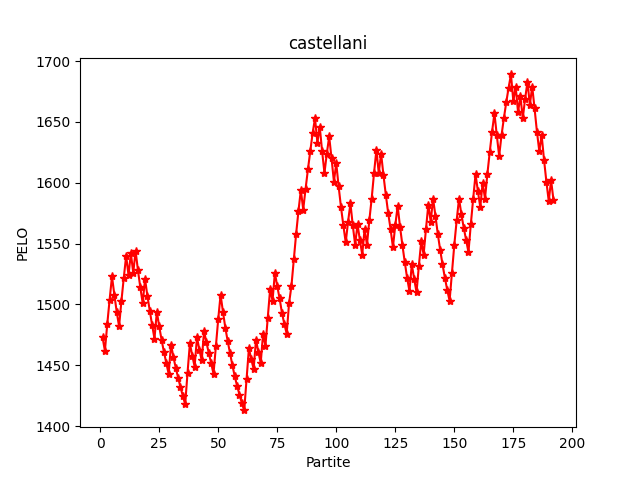
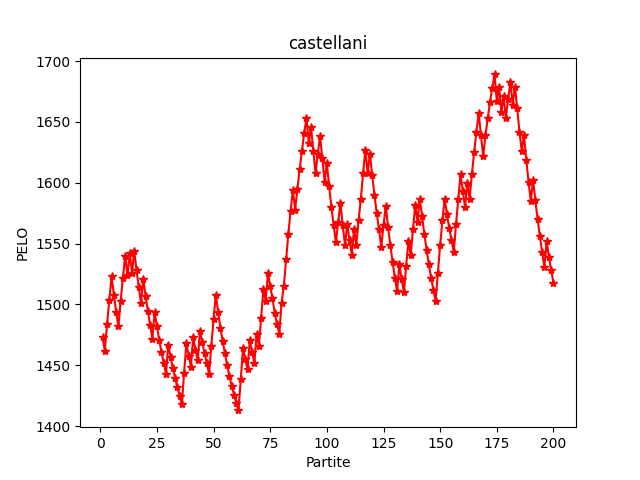
Add files via upload

diff --git a/index.htm b/index.htm
@@ -17,6 +17,15 @@
   <tbody>
     <tr>
       <th>0</th>
+      <td><a href='zontini.png'>zontini</a></td>
+      <td>1657</td>
+      <td>191</td>
+      <td>104</td>
+      <td>1910</td>
+      <td>1817</td>
+    </tr>
+    <tr>
+      <th>1</th>
       <td><a href='devigili.png'>devigili</a></td>
       <td>1646</td>
       <td>11</td>
@@ -25,16 +34,16 @@
       <td>78</td>
     </tr>
     <tr>
-      <th>1</th>
-      <td><a href='zontini.png'>zontini</a></td>
-      <td>1634</td>
-      <td>189</td>
-      <td>102</td>
-      <td>1886</td>
-      <td>1803</td>
+      <th>2</th>
+      <td><a href='caprile.png'>caprile</a></td>
+      <td>1630</td>
+      <td>151</td>
+      <td>91</td>
+      <td>1540</td>
+      <td>1335</td>
     </tr>
     <tr>
-      <th>2</th>
+      <th>3</th>
       <td><a href='turino.png'>turino</a></td>
       <td>1627</td>
       <td>10</td>
@@ -43,7 +52,7 @@
       <td>79</td>
     </tr>
     <tr>
-      <th>3</th>
+      <th>4</th>
       <td><a href='malvagi.png'>malvagi</a></td>
       <td>1611</td>
       <td>60</td>
@@ -52,22 +61,13 @@
       <td>574</td>
     </tr>
     <tr>
-      <th>4</th>
-      <td><a href='castellani.png'>castellani</a></td>
-      <td>1586</td>
-      <td>353</td>
-      <td>153</td>
-      <td>3262</td>
-      <td>3524</td>
-    </tr>
-    <tr>
       <th>5</th>
-      <td><a href='caprile.png'>caprile</a></td>
-      <td>1577</td>
-      <td>145</td>
-      <td>86</td>
-      <td>1474</td>
-      <td>1291</td>
+      <td><a href='castellani.png'>castellani</a></td>
+      <td>1518</td>
+      <td>361</td>
+      <td>154</td>
+      <td>3320</td>
+      <td>3614</td>
     </tr>
     <tr>
       <th>6</th>
